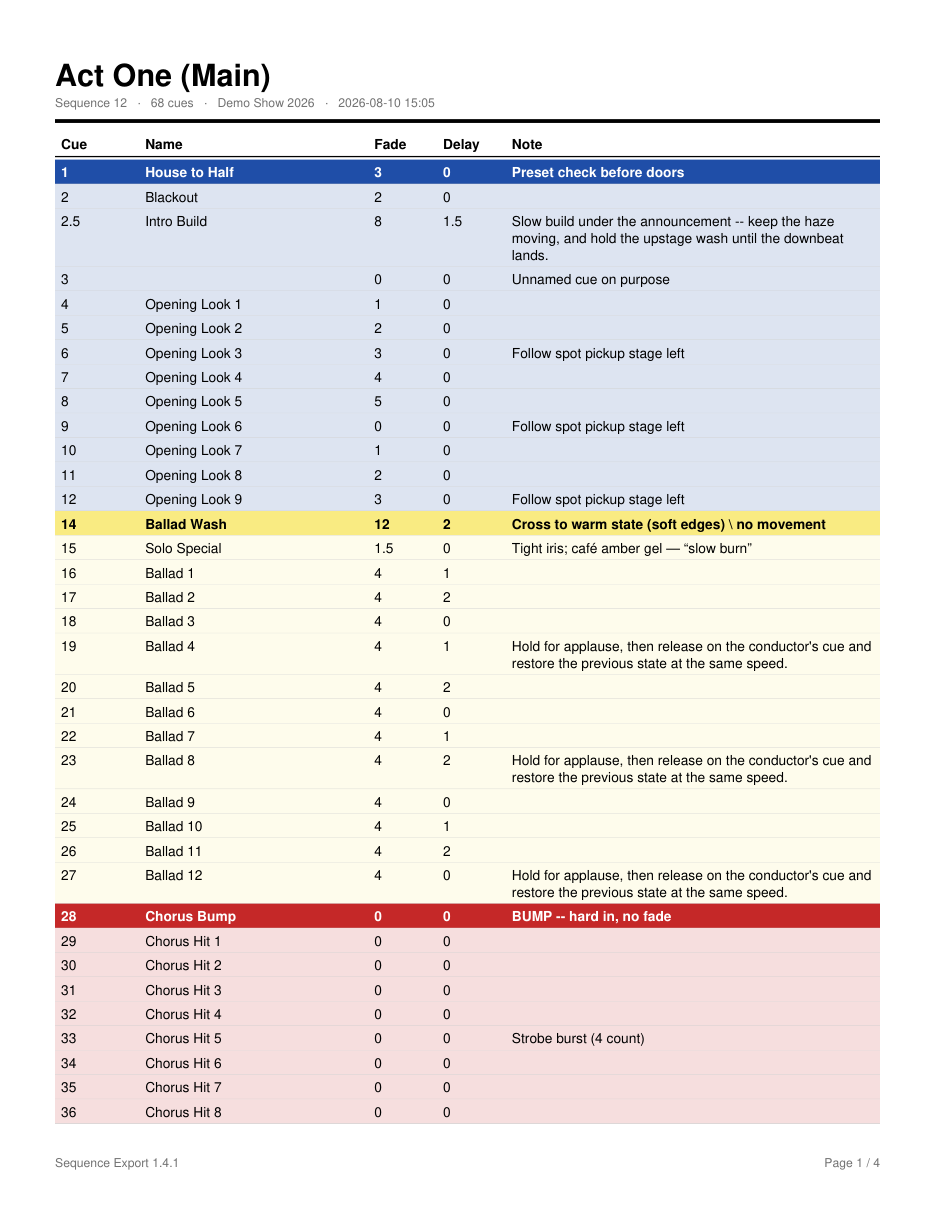
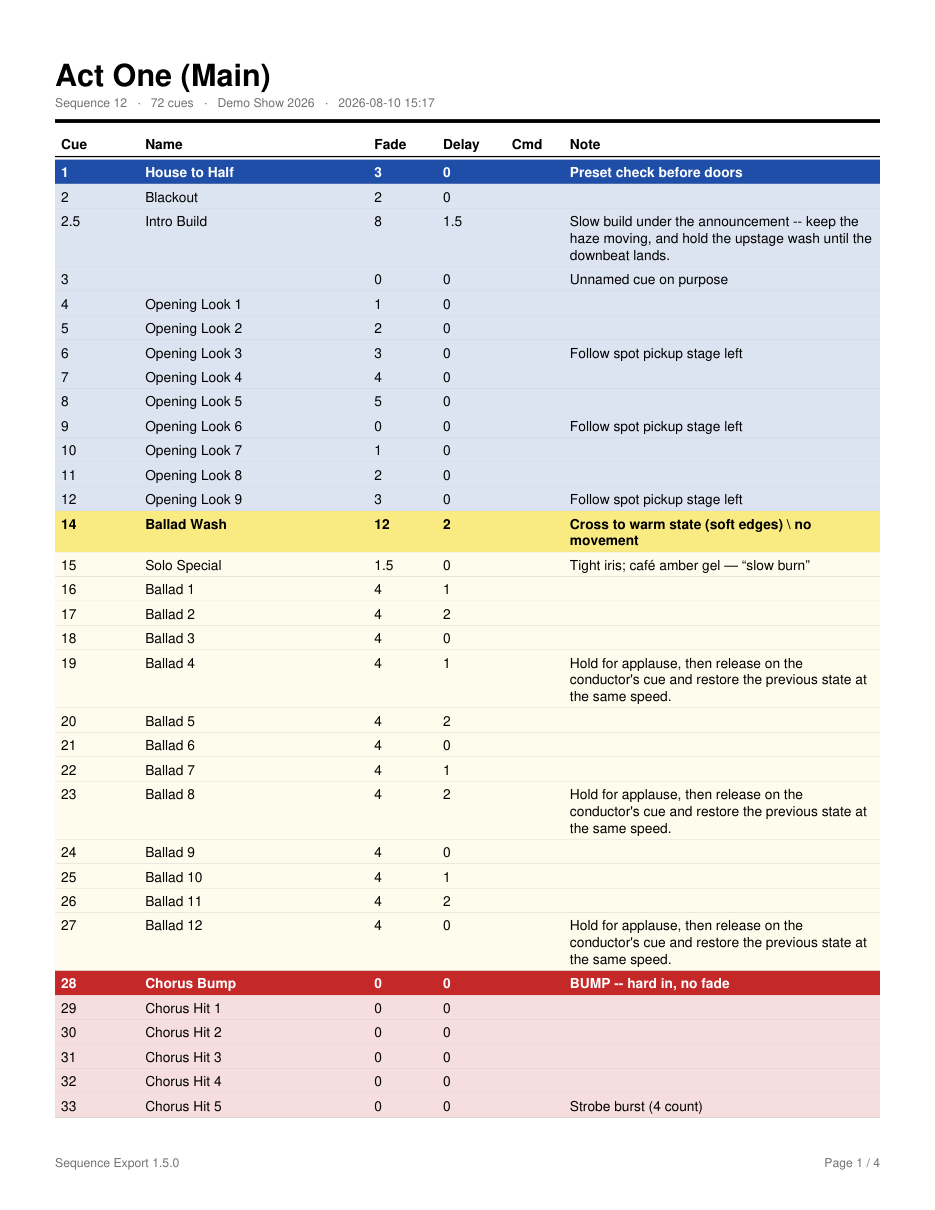
Add a Cmd column flagging cues that fire a command
A running sheet did not show which cues carry a command. There is now a
Cmd column between Delay and Note holding the marker CMD, configurable
via CFG.commandMarker. The command text is deliberately never read into
the row -- only whether one exists.

The column takes its 38pt from Note, which was the only column with
slack, keeping the widths summing to the 540pt content width. A test
asserts that sum, so a future column edit cannot silently push text off
the page.

The property name is not documented anywhere reachable and every
property guessed in this plugin has been wrong at least once, so it is
discovered rather than assumed: Command, Cmd and CmdText are tried
first, then any cue or part property whose name contains cmd or command,
via the PropertyCount()/PropertyName() machinery that solved the
Appearance problem. A command on part 1 counts, so cues storing it there
still flag.

The mock previously attached the command property only to cues that had
one, which is not how a console behaves -- all cues share a class and so
a property list. Because the plugin discovers the property from the
first cue, a property only some cues declared went unseen. Commands are
now a show-wide switch, M.commandProperty and M.commandOnPart, and the
suite runs the four shapes: on the cue or its part, under the obvious
name or one only enumeration finds.

verify_pdf asserts the Cmd header sits between Delay and Note by x
[…]

diff --git a/dev/verify_pdf.py b/dev/verify_pdf.py
@@ -17,7 +17,7 @@ import pymupdf
 EXPECTED_TEXT = [
     "Act One (Main)",        # sequence name, the bold title
     "Sequence 12",           # meta line
-    "Cue", "Name", "Fade", "Delay", "Note",   # column headers
+    "Cue", "Name", "Fade", "Delay", "Cmd", "Note",   # column headers
     # Sections are now titled by the cue that carries the Appearance, so the
     # Appearance's own name ("01 Opening") is deliberately absent.
     "It Really Is Amazing Grace",
@@ -156,6 +156,28 @@ def main(path: str) -> int:
     for appearance_name in ("01 Opening", "02 Ballad", "03 Big Chorus"):
         check(f"the Appearance name {appearance_name!r} is not used as a label",
               appearance_name.lower() not in lowered)
+
+    # The Cmd column flags that a cue fires a command. The command itself must
+    # never be printed -- the user asked for the flag, not the text.
+    check("commanded cues are flagged", "CMD" in text, "no CMD marker found")
+    for command_text in ("Go Sequence 5", "Off Sequence 7", "Goto Cue 9"):
+        check(f"the command text {command_text!r} never reaches the page",
+              command_text.lower() not in lowered)
+
+    # Cmd must sit between Delay and Note, by x position on the page.
+    header_spans = {
+        span["text"].strip(): span["bbox"][0]
+        for block in first.get_text("dict")["blocks"]
+        for line in block.get("lines", [])
+        for span in line["spans"]
+        if span["text"].strip() in ("Cue", "Name", "Fade", "Delay", "Cmd", "Note")
+    }
+    check("the Cmd header is present", "Cmd" in header_spans,
+          str(sorted(header_spans)))
+    if {"Delay", "Cmd", "Note"} <= header_spans.keys():
+        check("Cmd sits between Delay and Note",
+              header_spans["Delay"] < header_spans["Cmd"] < header_spans["Note"],
+              str({k: round(v) for k, v in header_spans.items()}))
 
     # The section header IS the cue's row, so a song title appears once, not
     # once in a band and again in the row beneath it.

diff --git a/README.md b/README.md
@@ -1,7 +1,7 @@
 # GrandMA3 Sequence Export Plugin
 
 Exports a grandMA3 sequence as a printable PDF cue sheet — cue number, name,
-fade, delay and note — with the sequence name as the title and each cue's
+fade, delay, a command flag and note — with the sequence name as the title and each cue's
 **Appearance** color carried over so songs and sections stay visible at a glance.
 
 Runs unchanged on a console or on onPC. No external tools, no dependencies:
@@ -24,6 +24,9 @@ the PDF bytes are generated in pure Lua, because MA3 ships no PDF library.
 - **Sub-cues** — `58.001`, `58.002` under cue `58` — are tinted with their
   song's color. Cues that are not sub-cues of the section head end the block and
   fall back to plain zebra striping, so a color never bleeds past its song.
+- A **Cmd** column between Delay and Note flags cues that fire a command. It
+  shows only that there *is* one — the command text is never printed. Change the
+  marker with `CFG.commandMarker`.
 - Long notes **word-wrap** and the row grows to fit. Page breaks repeat the
   column headers and re-draw the current section band marked `(cont.)`.
 
@@ -259,6 +262,11 @@ cell rather than aborting the export. Two specifics worth knowing:
   plain string array older examples show, and it reportedly gained a
   named-parameter form at some point. Since sequences are now entered by number,
   no list widget is needed and the code is gone.
+
+- **A cue's command property is discovered the same way.** `Command`, `Cmd` and
+  `CmdText` are tried first, then any cue or part property whose name contains
+  `cmd` or `command`. Only whether it is non-empty is read; the text is never
+  loaded into the sheet.
 
 To confirm which Lua functions exist in your exact build, run the **`HelpLua`**
 keyword on the console — it writes `grandMA3_lua_functions.txt` into the
